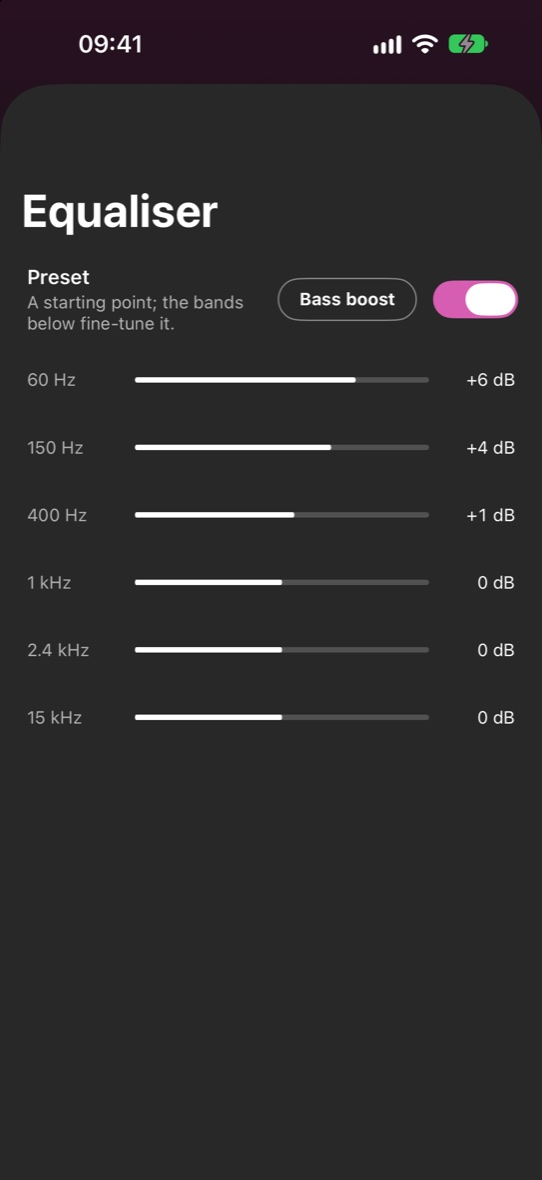
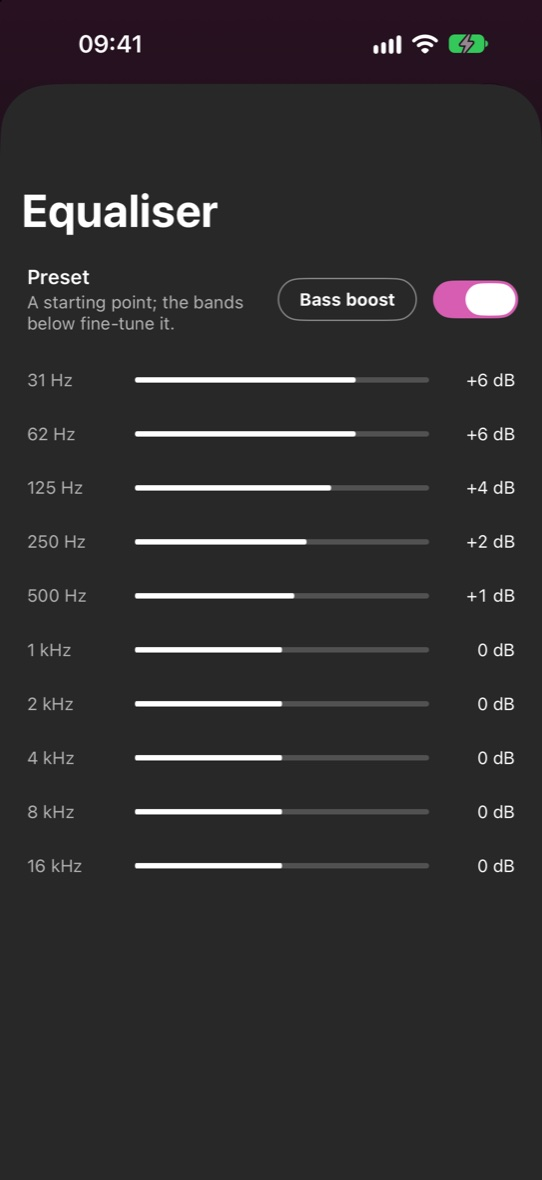
refactor: Less work on the audio thread, shared helpers for repeated code, and settings tabs that scroll to the one chosen

diff --git a/Packages/YTMKit/Tests/YTMCoreTests/PlaylistBatchTests.swift b/Packages/YTMKit/Tests/YTMCoreTests/PlaylistBatchTests.swift
@@ -4,15 +4,16 @@ import Testing
 
 /// A long playlist's later batches, as `YTMusic.loadStep` takes each one on from the step before.
 @Suite struct PlaylistBatchTests {
-    private func rows(_ entries: [(song: String, entry: String)]) throws -> [JSON] {
+    private func rows(_ entries: [(song: String, entry: String?)]) throws -> [JSON] {
         let rows = entries.map {
-            #"{"musicResponsiveListItemRenderer":{"playlistItemData":{"videoId":"\#($0.song)","playlistSetVideoId":"\#($0.entry)"},"#
+            #"{"musicResponsiveListItemRenderer":{"playlistItemData":{"videoId":"\#($0.song)""#
+                + ($0.entry.map { #","playlistSetVideoId":"\#($0)""# } ?? "") + "},"
                 + #""flexColumns":[{"musicResponsiveListItemFlexColumnRenderer":{"text":{"runs":[{"text":"Song \#($0.song)"}]}}}]}}"#
         }
         return try JSON(data: Data(("[" + rows.joined(separator: ",") + "]").utf8)).array
     }
 
-    private func page(after entries: [(song: String, entry: String)], fetched: Int? = nil) throws -> Page {
+    private func page(after entries: [(song: String, entry: String?)], fetched: Int? = nil) throws -> Page {
         var seen = Set<String>()
         let first = Renderers.playlistRows(try rows(entries), seen: &seen)
         return Page(
@@ -22,13 +23,25 @@ import Testing
         )
     }
 
-    private func step(_ page: Page, _ entries: [(song: String, entry: String)], next: String?) throws -> Page {
+    private func step(_ page: Page, _ entries: [(song: String, entry: String?)], next: String?) throws -> Page {
         guard case .tracks(_, var seen, let fetched)? = page.more else {
             Issue.record("the page had no step left")
             return page
         }
         let batch = Renderers.playlistRows(try rows(entries), seen: &seen)
         return Renderers.addingBatch((batch.tracks, batch.fetched, next), to: page, seen: seen, fetched: fetched)
+    }
+
+    @Test func dropsRepeatedEntriesButNotSongsListedTwiceCountingThem() throws {
+        var seen = Set<String>()
+        let first = Renderers.playlistRows(try rows([("a", "S1"), ("b", "S2"), ("c", "S3")]), seen: &seen)
+        // Starting over at b, then a listed again under a new entry, and rows with no entry ID.
+        let next = Renderers.playlistRows(try rows([("b", "S2"), ("c", "S3"), ("a", "S4"), ("d", nil), ("d", nil)]), seen: &seen)
+        #expect(first.tracks.map(\.id) + next.tracks.map(\.id) == ["a", "b", "c", "a", "d", "d"])
+        #expect(next.fetched == 5, "the repeats count towards the playlist's cap")
+        #expect(next.tracks.allSatisfy { $0.setVideoId == nil }, "entry IDs only for the account's own")
+        let again = Renderers.playlistRows(try rows([("a", "S1")]), entries: true, seen: &seen)
+        #expect(again.tracks.isEmpty && again.fetched == 1)
     }
 
     @Test func carriesOnPastABatchOfRepeatsUntilOneOfNothing() throws {

diff --git a/Packages/YTMKit/Sources/YTMCore/API/YTMusic+Playlist.swift b/Packages/YTMKit/Sources/YTMCore/API/YTMusic+Playlist.swift
@@ -102,21 +102,20 @@ extension Renderers {
         )
     }
 
-    /// A batch of a playlist's songs, without the entries `seen` already holds, which it then holds too: YouTube
-    /// sometimes answers a long curated playlist's next batch from its start again. By entry rather than song, so a
-    /// song the playlist holds twice keeps both. `fetched` counts the repeats too. `entries` keeps each song's entry
-    /// ID, for the account's own playlist.
+    /// Drops the entries `seen` already holds and adds the rest: YouTube sometimes answers a long playlist's next
+    /// batch from its start again. By entry, not song, so a song listed twice keeps both. `fetched` counts the
+    /// repeats too; `entries` keeps entry IDs, for the account's own playlist.
     static func playlistRows(_ items: [JSON], entries: Bool = false, seen: inout Set<String>) -> (tracks: [Track], fetched: Int) {
-        let rows = keepFirstEntries(items, seen: &seen) {
-            $0["musicResponsiveListItemRenderer", "playlistItemData", "playlistSetVideoId"].string
+        let rows = items.filter {
+            $0["musicResponsiveListItemRenderer", "playlistItemData", "playlistSetVideoId"].string.map { seen.insert($0).inserted } ?? true
         }
         let tracks = tracks(rows, context: ItemContext(entries: entries))
         return (tracks, tracks.count + items.count - rows.count)
     }
 
-    /// `page` with a later batch of its songs from `YTMusic.playlistBatch`, and the step after should one be due,
-    /// handing on `seen`. A batch of nothing but repeats carries on, as the next may hold new songs again; `fetched`,
-    /// the tracks come before the batch, repeats included, counts towards `YTMusic.playlistLimit`.
+    /// `page` with a later batch from `YTMusic.playlistBatch` and the next step, if one is due. A batch of only
+    /// repeats carries on, as the next may hold new songs. `fetched`, the tracks before this batch with repeats,
+    /// counts towards `YTMusic.playlistLimit`.
     static func addingBatch(
         _ batch: (tracks: [Track], fetched: Int, next: String?), to page: Page, seen: Set<String>, fetched: Int
     ) -> Page {
@@ -137,10 +136,6 @@ extension Renderers {
             page.header?.meta = Formatting.playlistMeta(count: count, tracks: section.tracks)
         }
         return page
-    }
-
-    static func keepFirstEntries<T>(_ items: [T], seen: inout Set<String>, entry: (T) -> String?) -> [T] {
-        items.filter { item in entry(item).map { seen.insert($0).inserted } ?? true }
     }
 
     /// The channel the facepile links to, else the one in the strapline or

diff --git a/Packages/YTMKit/Tests/YTMCoreTests/PagesTests.swift b/Packages/YTMKit/Tests/YTMCoreTests/PagesTests.swift
@@ -128,34 +128,6 @@ private let editablePlaylist = #"""
         #expect(Renderers.trackCount(two) == 12)
         #expect(Renderers.trackCount(.missing) == nil)
     }
-
-    @Test func dropsABatchRepeatedFromTheStartButNotSongsListedTwice() {
-        // Entries a, b, c, then a next batch starting over at b with one new.
-        let entries: [(song: String, entry: String?)] = [
-            ("a", "1"), ("b", "2"), ("c", "3"), ("b", "2"), ("c", "3"), ("a", "4"), ("d", nil), ("d", nil),
-        ]
-        var seen = Set<String>()
-        let kept = Renderers.keepFirstEntries(entries, seen: &seen, entry: \.entry)
-        #expect(kept.map(\.song) == ["a", "b", "c", "a", "d", "d"])
-    }
-
-    @Test func dropsRepeatedEntriesAcrossBatchesCountingThem() throws {
-        func row(_ id: String, _ entry: String) -> String {
-            #"{"musicResponsiveListItemRenderer":{"playlistItemData":{"videoId":"\#(id)","playlistSetVideoId":"\#(entry)"},"#
-                + #""flexColumns":[{"musicResponsiveListItemFlexColumnRenderer":{"text":{"runs":[{"text":"Song \#(id)"}]}}}]}}"#
-        }
-        func rows(_ list: [(String, String)]) throws -> [JSON] {
-            try json("[" + list.map { row($0.0, $0.1) }.joined(separator: ",") + "]").array
-        }
-        var seen = Set<String>()
-        let first = Renderers.playlistRows(try rows([("a", "S1"), ("b", "S2"), ("c", "S3")]), seen: &seen)
-        let next = Renderers.playlistRows(try rows([("b", "S2"), ("c", "S3"), ("d", "S4")]), seen: &seen)
-        #expect(first.tracks.map(\.id) + next.tracks.map(\.id) == ["a", "b", "c", "d"])
-        #expect(next.fetched == 3, "the repeats count towards the playlist's cap")
-        #expect(next.tracks.allSatisfy { $0.setVideoId == nil }, "entry IDs only for the account's own")
-        let again = Renderers.playlistRows(try rows([("a", "S1")]), entries: true, seen: &seen)
-        #expect(again.tracks.isEmpty && again.fetched == 1)
-    }
 }
 
 private let album = #"""

diff --git a/Packages/YTMKit/Sources/YTMAudio/Track.swift b/Packages/YTMKit/Sources/YTMAudio/Track.swift
@@ -87,6 +87,10 @@ final class Track {
             }
             try bytes.withUnsafeBytes { try source?.parse($0) }
             parsed += Int64(bytes.count)
+            // Left here rather than at the next supply, so a fade planned before it sees one timeline.
+            if let run = seekRun, parsed >= run.parsed {
+                leaveRun()
+            }
             if decoder == nil, let format = source?.format {
                 let decoder = try PacketDecoder(source: format, file: loader.reader)
                 decoder.seek(to: Int64((startAt * format.sampleRate).rounded()))
@@ -173,8 +177,8 @@ final class Track {
     }
 
     /// Starts a seek run when the decoder seeks past the packets listed from the start and the file's index
-    /// has a point before it, reads what has arrived of the run, and ends it once the bytes from the start
-    /// catch up, so length, padding and sound end still wait for every byte.
+    /// has a point before it, and reads what has arrived of the run. `receive` ends it once the bytes from
+    /// the start catch up, so length, padding and sound end still wait for every byte.
     private func aim() {
         guard let source, let decoder else { return }
         if let from = decoder.seekingFrom {
@@ -191,10 +195,6 @@ final class Track {
             }
         }
         guard let run = seekRun else { return }
-        guard parsed < run.parsed else {
-            leaveRun()
-            return
-        }
         let end = loader.runEnd(from: run.parsed)
         var at = run.parsed
         do {

diff --git a/Packages/YTMKit/Sources/YTMAudio/EqualiserBands.swift b/Packages/YTMKit/Sources/YTMAudio/EqualiserBands.swift
@@ -40,9 +40,12 @@ public struct EqualiserBands {
         let top = rate * 0.45
         var (hz, peak) = (20.0, 1.0)
         for _ in 0..<64 {
+            // The same for every band, so worked out once: this runs on the render thread through a glide.
+            let w = 2 * Double.pi * min(hz, top) / rate
+            let (c1, s1, c2, s2) = (cos(w), sin(w), cos(2 * w), sin(2 * w))
             var power = 1.0
             for band in filters.indices {
-                power *= filters[band].power(at: min(hz, top), rate: rate)
+                power *= filters[band].power(c1, s1, c2, s2)
             }
             peak = max(peak, power.squareRoot())
             hz *= step
@@ -69,11 +72,9 @@ public struct EqualiserBands {
             a2 = Float((1 - alpha / a) / a0)
         }
 
-        /// The gain at `hz`, squared, from the transfer function
+        /// The gain at w, squared, from the cosines and sines of w and 2w and the transfer function
         /// H(e^jw) = (b0 + b1 e^-jw + b2 e^-2jw) / (1 + a1 e^-jw + a2 e^-2jw).
-        func power(at hz: Double, rate: Double) -> Double {
-            let w = 2 * Double.pi * hz / rate
-            let (c1, s1, c2, s2) = (cos(w), sin(w), cos(2 * w), sin(2 * w))
+        func power(_ c1: Double, _ s1: Double, _ c2: Double, _ s2: Double) -> Double {
             func part(_ k0: Float, _ k1: Float, _ k2: Float) -> Double {
                 let (k0, k1, k2) = (Double(k0), Double(k1), Double(k2))
                 let (re, im) = (k0 + k1 * c1 + k2 * c2, k1 * s1 + k2 * s2)

diff --git a/Packages/YTMKit/Sources/YTMPlayback/PlayerController+QueueEdits.swift b/Packages/YTMKit/Sources/YTMPlayback/PlayerController+QueueEdits.swift
@@ -31,18 +31,17 @@ extension PlayerController {
 
     /// Saves the queue as a private playlist, such as "Queue 14 November 2026", answering its card for Library to
     /// show at once, as YouTube's list of playlists takes a while to hold one just made. Signed in only.
-    @discardableResult
     public func saveQueueAsPlaylist() async -> Card? {
-        let tracks = Array(queue.items)
-        guard !tracks.isEmpty else { return nil }
+        let ids = Array(queue.items.map(\.id))
+        guard !ids.isEmpty else { return nil }
+        let thumbnail = queue.items.lazy.compactMap(\.thumbnail).first
         let title = Date.now.formatted(Self.playlistTitle)
-        say("Saving \(Formatting.songs(tracks.count)) as a playlist…")
+        say("Saving \(Formatting.songs(ids.count)) as a playlist…")
         do {
-            let id = try await music.createPlaylist(title: title, videoIds: tracks.map(\.id))
+            let id = try await music.createPlaylist(title: title, videoIds: ids)
             say("Saved as “\(title)”")
             return Card(
-                kind: .playlist, id: id, title: title, subtitle: "Playlist • \(Formatting.songs(tracks.count))",
-                thumbnail: tracks.lazy.compactMap(\.thumbnail).first
+                kind: .playlist, id: id, title: title, subtitle: "Playlist • \(Formatting.songs(ids.count))", thumbnail: thumbnail
             )
         } catch {
             say("Couldn't save the playlist: \(sentence(for: error))")

diff --git a/Packages/YTMKit/Sources/ytmcheck/IndexInspect.swift b/Packages/YTMKit/Sources/ytmcheck/IndexInspect.swift
@@ -12,10 +12,21 @@ enum IndexInspect {
             let response = try PlayerResponse(json: await resolver.player(videoId: id, as: .visionOS))
             for format in response.formats where [251, 140].contains(format.itag) {
                 guard let url = format.url.flatMap(URL.init(string:)), HTTP.isAllowed(url) else { continue }
-                let file = try await download(url, length: format.contentLength ?? 0)
-                let line = try check(file)
-                exact = exact && line.exact
-                print("\(id) itag \(format.itag), \(file.count >> 10) KB: \(line.text)")
+                guard let length = format.contentLength else {
+                    exact = false
+                    print("\(id) itag \(format.itag): no content length")
+                    continue
+                }
+                // One bad file is reported rather than ending the run.
+                do {
+                    let file = try await download(url, length: length)
+                    let line = try check(file)
+                    exact = exact && line.exact
+                    print("\(id) itag \(format.itag), \(file.count >> 10) KB: \(line.text)")
+                } catch {
+                    exact = false
+                    print("\(id) itag \(format.itag): \(error)")
+                }
             }
         }
         return exact

diff --git a/Packages/YTMKit/Sources/YTMPlayback/WatchReport.swift b/Packages/YTMKit/Sources/YTMPlayback/WatchReport.swift
@@ -70,12 +70,11 @@ struct WatchReport {
         stretches = []
         sent += 1
         nextAt = ping.due(sent, sent: elapsed)
-        // What it reports, without the ping's URL and its tokens.
-        let spans = watched.stretches.map { String(format: "%.1f-%.1f", $0.lowerBound, $0.upperBound) }.joined(separator: ", ")
-        let state = (paused ? ", paused" : "") + (flush == .last ? ", final" : "")
-        let (count, at) = (sent, position)
+        // What it reports, without the ping's URL and its tokens. A mutating func's log can't read `self`, and the
+        // spans are written out only with debug logging on.
+        let count = sent
         Logger.playback.debug(
-            "watch time \(count) at \(elapsed.seconds, format: .fixed(precision: 0)) s: heard [\(spans, privacy: .public)], at \(at, format: .fixed(precision: 1)) s\(state, privacy: .public)"
+            "watch time \(count) at \(elapsed.seconds, format: .fixed(precision: 0)) s: heard [\(watched.stretches.map { String(format: "%.1f-%.1f", $0.lowerBound, $0.upperBound) }.joined(separator: ", "), privacy: .public)], at \(watched.position, format: .fixed(precision: 1)) s\(watched.paused ? ", paused" : "", privacy: .public)\(watched.last ? ", final" : "", privacy: .public)"
         )
         return (ping, watched)
     }

diff --git a/App/Sources/Settings/SoundSettings.swift b/App/Sources/Settings/SoundSettings.swift
@@ -6,7 +6,10 @@ struct SoundSettings: View {
 
     var body: some View {
         @Bindable var settings = app.settings
-        SettingRow(label: "Normalise volume", detail: Self.normaliseDetail(settings.value.normalise), stacked: true) {
+        SettingRow(
+            label: "Normalise volume", detail: Self.normaliseDetail(settings.value.normalise), detailRoom: Self.normaliseDetail(.off),
+            stacked: true
+        ) {
             ChoicePills(choices: [(Normalise.off, "Off"), (.quiet, "Quiet"), (.normal, "Normal")], selection: $settings.value.normalise)
         }
         SettingRow(label: "Equaliser", detail: EqualiserScreen.summary(settings.value)) {
@@ -45,7 +48,6 @@ struct SoundSettings: View {
 
     private static func normaliseDetail(_ normalise: Normalise) -> String {
         switch normalise {
-        // All three about as long, so the rows below stay put on a pick.
         case .off: "Plays every track as it was mastered, leaving loud ones loud and quiet ones quiet."
         case .quiet: "Plays every track at a similar loudness, a little quieter than Normal."
         case .normal: "Plays every track at a similar loudness, turning quiet ones up and loud ones down."

diff --git a/Packages/YTMKit/Sources/YTMAudio/Equaliser.swift b/Packages/YTMKit/Sources/YTMAudio/Equaliser.swift
@@ -91,10 +91,8 @@ struct Equaliser {
         preamp = endPreamp
         // A tenth of a second takes even a full-scale bass note's ringing down to about -60 dB.
         ringing = isFlat ? max(ringing - (frames - gliding), 0) : Int(rate) / 10
-        // Memory this small is flushed, as denormal floats would slow every sample once the music goes quiet;
-        // a filter that blew up anyway is put back at rest rather than left sending infinities to the device.
-        for index in memory.indices where abs(memory[index]) < 1e-20 || !memory[index].isFinite {
-            memory[index] = 0
+        for index in memory.indices {
+            memory[index] = memory[index].flushed
         }
     }
 
@@ -119,4 +117,10 @@ struct Equaliser {
             return abs(gap) <= by ? to[band] : from[band] + (gap < 0 ? -by : by)
         }
     }
+}
+
+extension Float {
+    /// Filter memory this small is flushed, as denormal floats would slow every sample once the music goes quiet;
+    /// a filter that blew up anyway is put back at rest rather than left sending infinities to the device.
+    var flushed: Float { abs(self) < 1e-20 || !isFinite ? 0 : self }
 }

diff --git a/App/Sources/AppModel+PlaylistEdits.swift b/App/Sources/AppModel+PlaylistEdits.swift
@@ -145,7 +145,6 @@ extension AppModel {
         let generation = accountGeneration
         Task {
             guard let card = await player.saveQueueAsPlaylist(), generation == accountGeneration else { return }
-            // A copy already expired stays so, rather than passing an old Library off as current.
             editLibraryPlaylists { cards in
                 guard !cards.contains(where: { $0.id == card.id }) else { return false }
                 // First among the account's own, after Liked music.
@@ -168,6 +167,7 @@ extension AppModel {
     /// as YouTube's lists can take a moment to. `edit` answers whether it changed the cards of a section of playlists.
     private func editLibraryPlaylists(_ edit: (inout [Card]) -> Bool) {
         for route in [Route.library, .libraryPlaylists] {
+            // An expired copy stays expired, rather than passing an old Library off as current.
             editPage(route, shown: nil, renewing: false) { page -> Void? in
                 var found = false
                 for index in page.sections.indices {

diff --git a/App/Sources/Settings/ProxyRow.swift b/App/Sources/Settings/ProxyRow.swift
@@ -24,8 +24,12 @@ struct ProxyRow: View {
                     .padding(.horizontal, 14)
                     .frame(height: 32)
                     .background(Capsule().strokeBorder(theme.ink.opacity(0.44), lineWidth: 1))
-                    // A mistyped address stays to be corrected.
-                    .onSubmit { Task { if await save(text) { text = "" } } }
+                    // A mistyped address stays to be corrected. Done on an empty field only puts the keyboard
+                    // away, as the field looks filled in by the saved address: clearing is the Clear button's.
+                    .onSubmit {
+                        guard !text.trimmingCharacters(in: .whitespaces).isEmpty else { return }
+                        Task { if await save(text) { text = "" } }
+                    }
                 if saved?.address != nil {
                     PillButton(title: "Clear", small: true) { Task { await save("") } }
                 }
